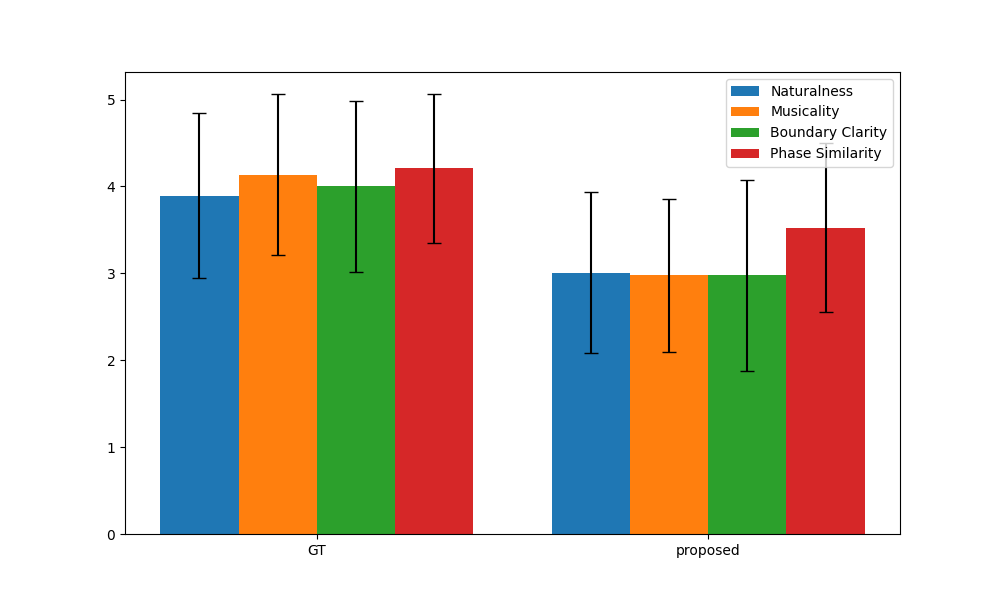
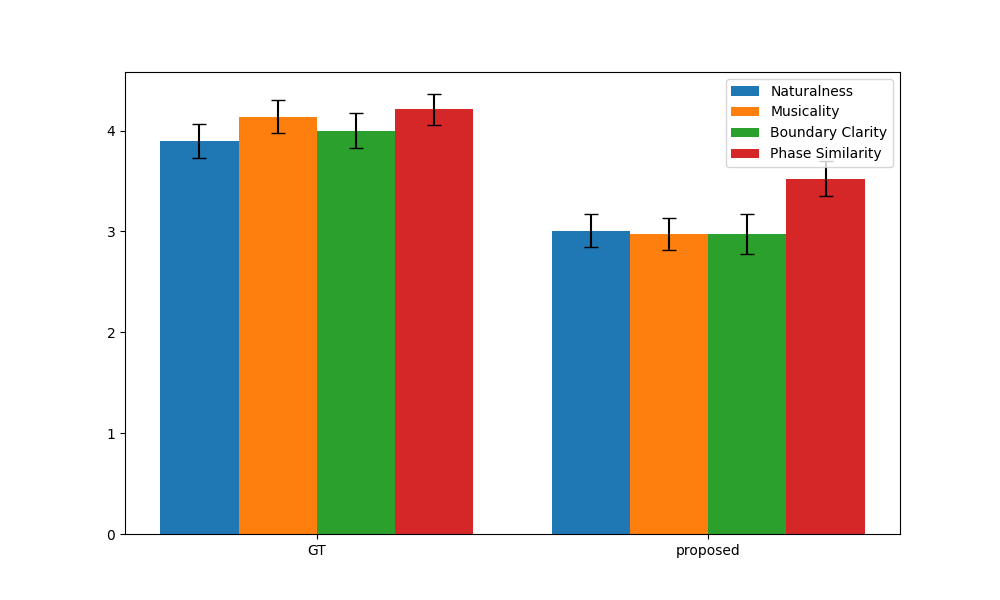
サンプルごとの分散の分析 & エラーバーを標準偏差から信頼区間に変更

diff --git a/results/analysis.py b/results/analysis.py
@@ -32,11 +32,57 @@ def graph(grouped_values, filename, type_="mos1"):
     means = np.zeros((num_items, num_keys))
     stds = np.zeros((num_items, num_keys))
 
+    confidence = 0.95  # 95%信頼区間
+    confidence_intervals_upper = np.zeros((num_items, num_keys))
+    confidence_intervals_lower = np.zeros((num_items, num_keys))
+
     for i in range(num_items):
         for j, key in enumerate(grouped_values):
             # 各keyのデータから、項目iに対応するデータを取り出し、平均と標準偏差を計算
             means[i, j] = np.mean(grouped_values[key][:, :, i])  # 項目iの平均
             stds[i, j] = np.std(grouped_values[key][:, :, i])  # 項目iの標準偏差
+            sem = stats.sem(grouped_values[key][:, :, i].reshape(-1))  # 標準誤差
+            confidence_intervals_lower[i, j], confidence_intervals_upper[i, j] = (
+                stats.t.interval(
+                    confidence,
+                    len(grouped_values[key][:, :, i].reshape(-1)) - 1,
+                    loc=means[i, j],
+                    scale=sem,
+                )
+            )
+            # print(
+            #     f"  {confidence_intervals_upper[i, j]}, {confidence_intervals_lower[i, j]}"
+            # )
+            # print(f"  {means[i, j]}")
+            # print(
+            #     f"  {(confidence_intervals_lower[i, j] + confidence_intervals_upper[i, j]) / 2}"
+            # )
+            # print(sem)
+
+    # 回答の標準偏差の確認
+    tmp = dict()
+    for k in grouped_values.keys():
+        tmp[k] = np.std(grouped_values[k], axis=0)
+    tmp_max = []
+    tmp_min = []
+    fig, axes = plt.subplots(2, 2, figsize=(10, 6))
+    for i, (key, std) in enumerate(tmp.items()):
+        ax = axes[i // 2, i % 2]
+        for j in range(std.shape[-1]):
+            ax.scatter(
+                std[:, j],
+                np.ones_like(std[:, j]) * j,
+                label=QUESTION_NAMES[type_][j],
+            )
+        ax.set_title(SYSTEM_NAMES[key])
+        tmp_max.append(np.max(std[:, j]))
+        tmp_min.append(np.min(std[:, j]))
+        ax.legend()
+    for ax in axes.flatten():
+        ax.set_xlim(min(tmp_min) * 0.95, max(tmp_max) * 1.05)
+    fig.suptitle(f"{type_} std min={min(tmp_min):.3f}, max={max(tmp_max):.3f}")
+    plt.savefig(f"{filename}_std.png")
+    plt.close("all")
 
     # グラフの描画
     x = np.arange(num_keys)  # X軸位置: keysの数だけ
@@ -49,7 +95,7 @@ def graph(grouped_values, filename, type_="mos1"):
             x + i * width,
             means[i, :],
             width,
-            yerr=stds[i, :],
+            yerr=confidence_intervals_upper[i, :] - means[i, :],  # 95%信頼区間
             capsize=5,
             label=QUESTION_NAMES[type_][i],
         )
